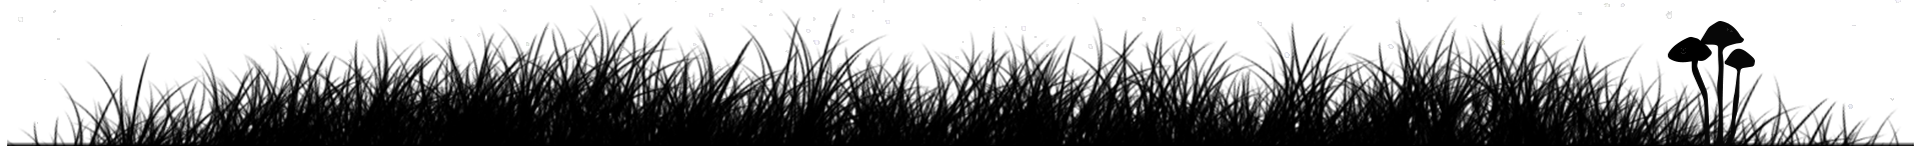
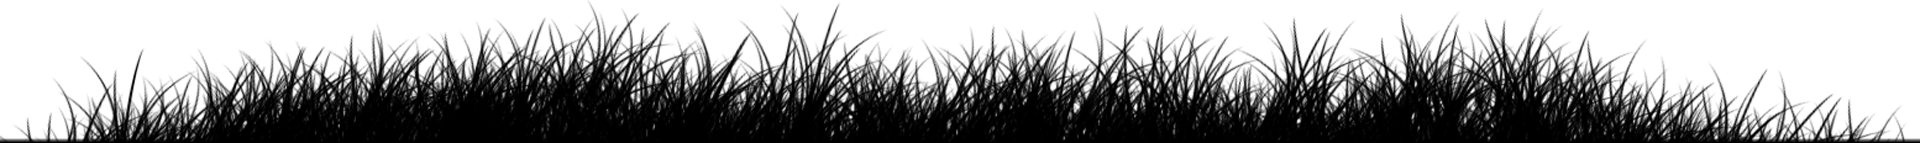
fixes, footer grass & shroom

diff --git a/wp-content/themes/ch8se/js/app.jsx b/wp-content/themes/ch8se/js/app.jsx
@@ -194,13 +194,17 @@ ch8se.menuToggle = function() {
   $menu.find('> li > a').on('click', function(e) {
     var $this = $(this);
 
-    if (trueWindowWidth() < 600 && !$this.parent().hasClass('expand') && $this.siblings().length && $this.text() !== 'Impact') {
+    if (trueWindowWidth() < 600 /*&& !$this.parent().hasClass('expand')*/ && $this.siblings().length && $this.text() !== 'Impact') {
       e.preventDefault();
-      $this.parent().addClass('expand');
-
       var $cont = $this.siblings('div');
 
-      $cont.css({transition: 'all 0.5s ease', height: $cont.find('ul').height() + 20});
+      if (!$this.parent().hasClass('expand')) {
+        $this.parent().addClass('expand');
+        $cont.css({transition: 'all 0.5s ease', height: $cont.find('ul').height() + 20});
+      } else {
+        $this.parent().removeClass('expand');
+        $cont.css({transition: 'all 0.5s ease', height: 0});
+      }
 
       setTimeout(function() {
         $cont.css({transition: ''});

diff --git a/wp-content/themes/ch8se/less/style.less b/wp-content/themes/ch8se/less/style.less
@@ -413,6 +413,18 @@ footer.site-footer {
   box-sizing: border-box;
   padding: 100px;
 
+  // .shrooms {
+    &:after {
+    background: url(img/shrooms.png) no-repeat bottom center;
+    background-size: 100% auto;
+    content: '';
+    width: 104px;
+    height: 158px;
+    position: absolute;
+    right: 40px;
+    bottom: 0;
+  }
+
   @media screen and (max-width: 600px) {
     padding: 40px 20px;
 
@@ -1296,6 +1308,7 @@ footer.site-footer {
 
   #transparency {
     position: relative;
+    overflow: hidden;
     .clearfix;
     img {
       float: left;
